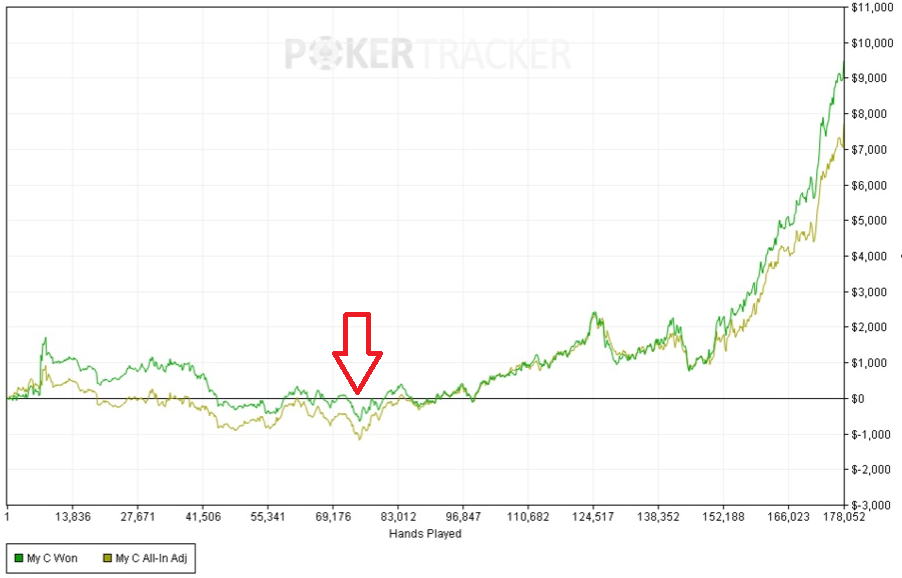
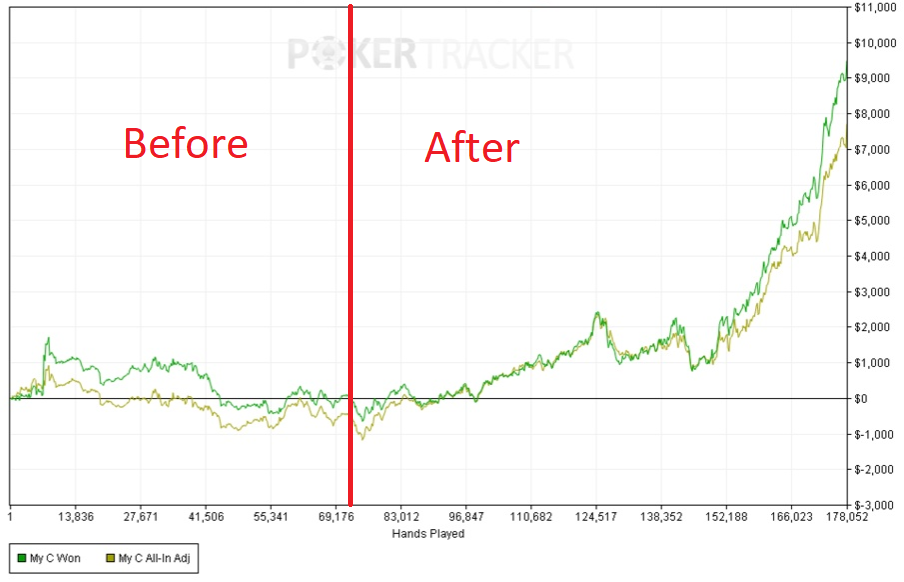
Site looks finalised aside from Pricing text format and some more testimonials to come

diff --git a/index.html b/index.html
@@ -99,6 +99,9 @@
                     </div> 
                 </div>
                 <!-- placeholder for darius, insert path to image here -->
+                <img class="text-center col-md-12" src="assets/img/graph red.png" 
+                    style="margin-bottom: 1rem; margin-top: 1rem;"/>
+                
                 <img class="text-center col-md-12" src="assets/img/graph.png" 
                     style="margin-bottom: 1rem; margin-top: 1rem;"/>
                     <img class="text-center col-md-12" src="assets/img/Cash Res.png" 
@@ -136,7 +139,7 @@
                             <i class="fas fa-circle fa-stack-2x text-primary"></i>
                             <i class="fas fa-key fa-stack-1x fa-inverse"></i>
                         </span> -->
-                        <h4 class="my-3">Marcello. 50-500nl</h4>
+                        <h4 class="my-3">Marcello (50-500nl)</h4>
                         <p class="text-muted">“Darius has helped me tremendously. In my experience, he brings an amazing blend of knowledge on the technical as well as the mindset side. With his understanding of theory and population exploits he was able to flush out the technical leaks. On the performance side, he helped me identify how my mindset challenges were manifesting technically, which was really huge for me. Thanks D!”
   
                         </p>
@@ -148,7 +151,7 @@
                             <i class="fas fa-circle fa-stack-2x text-primary"></i>
                             <i class="fas fa-laptop fa-stack-1x fa-inverse"></i>
                         </span> -->
-                        <h4 class="my-3">Jack O. 50nl-200nl</h4>
+                        <h4 class="my-3">Jack O (50nl-200nl)</h4>
                         <p class="text-muted">“I have been receiving coaching from Darius for about three months now. I firmly believe that working with Darius was the turning point that took me from being down 50BI at 50NL on June 1st, to crushing $200NL as I write this review. Darius integrates both the exploitative and equilibrium styles in a natural, teachable way and my game has transformed for the better. Darius is very skilled at addressing the mental side of the game. He is a very empathetic coach, when we uncover the really ugly play, he can address it nonjudgmentally. I feel totally free to be completely vulnerable and share any hand history or mental insight with him. I would recommend Darius to anyone looking to take their game to the next level”
  
                         </p>
@@ -160,14 +163,15 @@
                             <i class="fas fa-circle fa-stack-2x text-primary"></i>
                             <i class="fas fa-heart fa-stack-1x fa-inverse"></i>
                         </span> -->
-                        <h4 class="my-3">Kaivon. 500nl</h4>
+                        <h4 class="my-3">Kaivon (500nl)</h4>
                         <p class="text-muted">"I just had my first session with Darius and I absolutely, 100% could not be more happy with the way it went. Darius did not disappoint. He clearly put a lot of thought and effort into the review and showed me spots where I was still lacking aggression. He opened my eyes to a lot of opportunities I was missing and pointed out several major patterns where I was routinely nitting it up. I believe I was already subconsciously aware of some of these leaks, but seeing how his aggressive style has led to much success for him, it reiterated a lot of what I know that I was still reluctant to fully trust. 
 
                             Darius is basically a human solver. Although he claims that he hasn’t done a tremendous amount of work in PioSolver, he clearly has a very intuitive grasp of poker theory. He uses this knowledge coupled with population exploits to relentlessly push the envelope. I highly, highly recommend working with him to probably 95% of players. I play mid-stakes myself, and I still massively benefitted from a single session with him. If you’re playing small stakes and are on the fence because of the cost, consider this an investment in yourself that will pay itself back many times over."
                             
                         </p>
-                        <img class="text-center col-md-12" src="assets/img/about/Ben Wang Original.png" 
-                        style="margin-bottom: 1rem; margin-top: 1rem;"/>
+                        
+  
+                        </p>
                     </div> 
                 </div>
             
@@ -205,7 +209,7 @@
                 <div class="row">
                     <div class="col-lg-8 mx-auto text-center"><p class="large text-muted">Email - darius@eqpoker.com </p></div>
                     <div class="col-lg-8 mx-auto text-center"><p class="large text-muted">Skype ID - live:.cid.bb90f6b5d81a3bae</p></div>
-                    <div class="col-lg-8 mx-auto text-center"><p class="large text-muted">Or use contact form below/DM on Twitter</p></div>
+                    <div class="col-lg-8 mx-auto text-center"><p class="large text-muted">Or DM me on Twitter</p></div>
                 </div>
                 </div>
             </div>
@@ -230,8 +234,7 @@
             </div>
         </div>
         <div class="container text-center col-md-4>">
-            <a class="btn btn-primary btn-xl text-uppercase js-scroll-trigger" 
-                style="margin-top: 1rem; margin-bottom: 1rem;" href=#team>blog</a>
+     
         
         <!-- Footer-->
         <footer class="footer py-4">
@@ -244,8 +247,8 @@
                         <a class="btn btn-dark btn-social mx-2" href="https://www.twitch.tv/eqpoker"><i class="fab fa-twitch"></i></a>
                     </div>
                     <div class="col-lg-4 text-lg-right">
-                        <a class="mr-3" href="#!">Privacy Policy</a>
-                        <a href="#!">Terms of Use</a>
+                        <a class="mr-3" href="#!">Blog</a>
+                        <a href="#!">About Me</a>
                     </div>
                 </div>
             </div>

diff --git a/html/contact.html b/html/contact.html
@@ -8,7 +8,7 @@
   <meta name="description" content="">
   <meta name="author" content="">
 
-  <title>Clean Blog - Start Bootstrap Theme</title>
+  <title>EQ Poker</title>
 
   <!-- Bootstrap core CSS -->
   <link href="vendor/bootstrap/css/bootstrap.min.css" rel="stylesheet">
